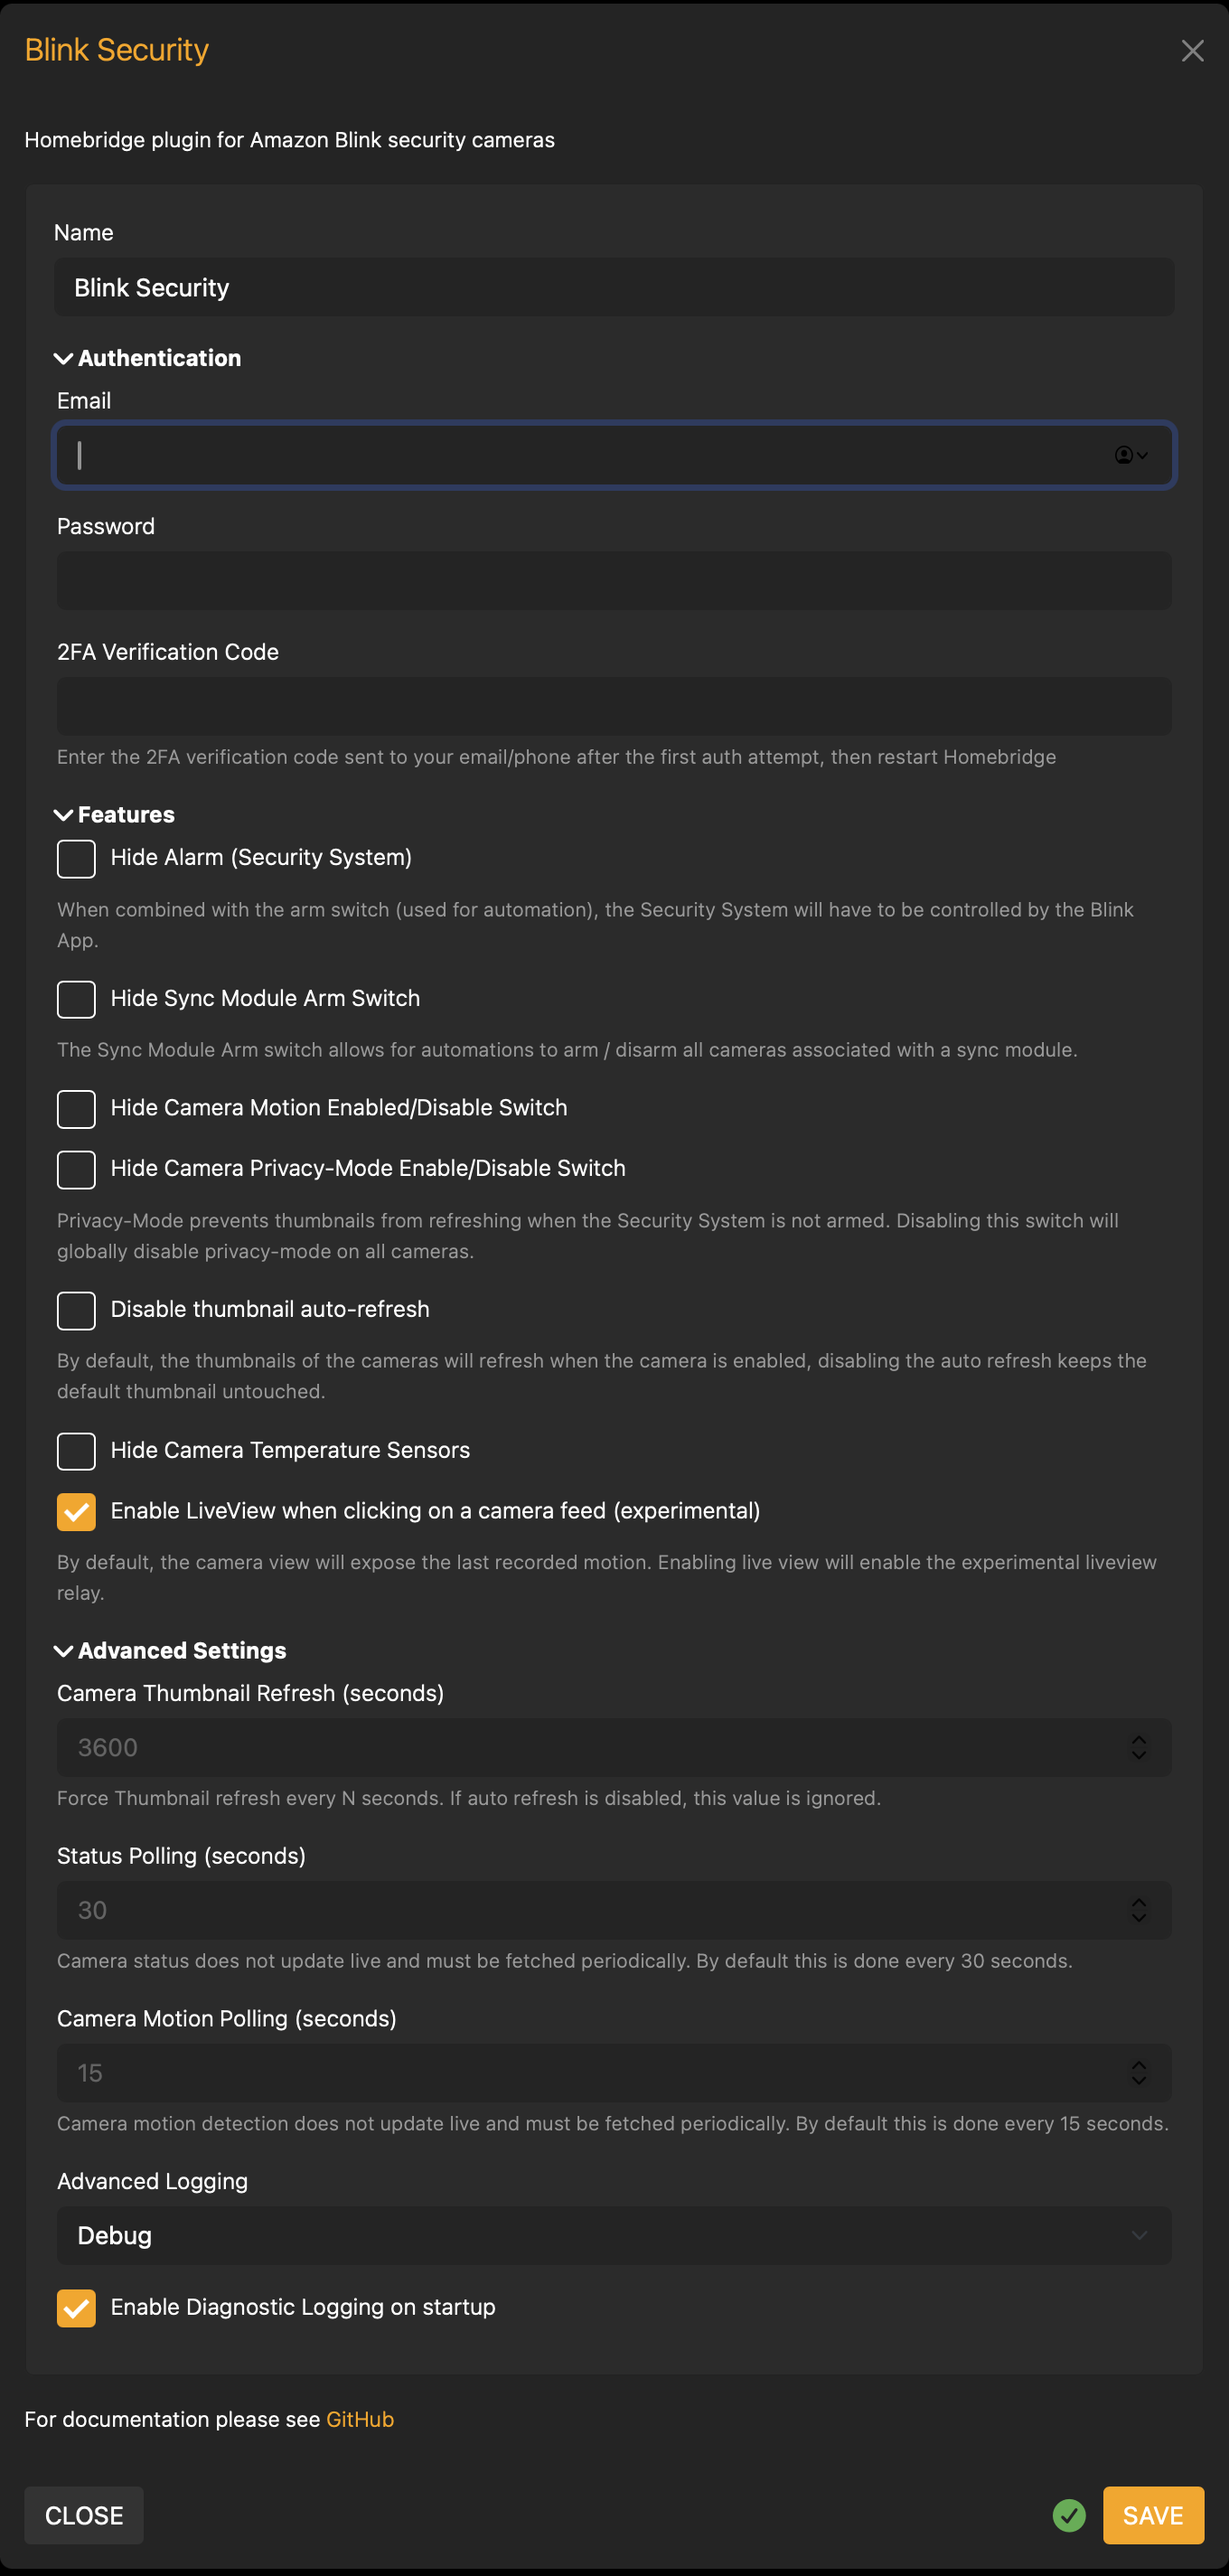
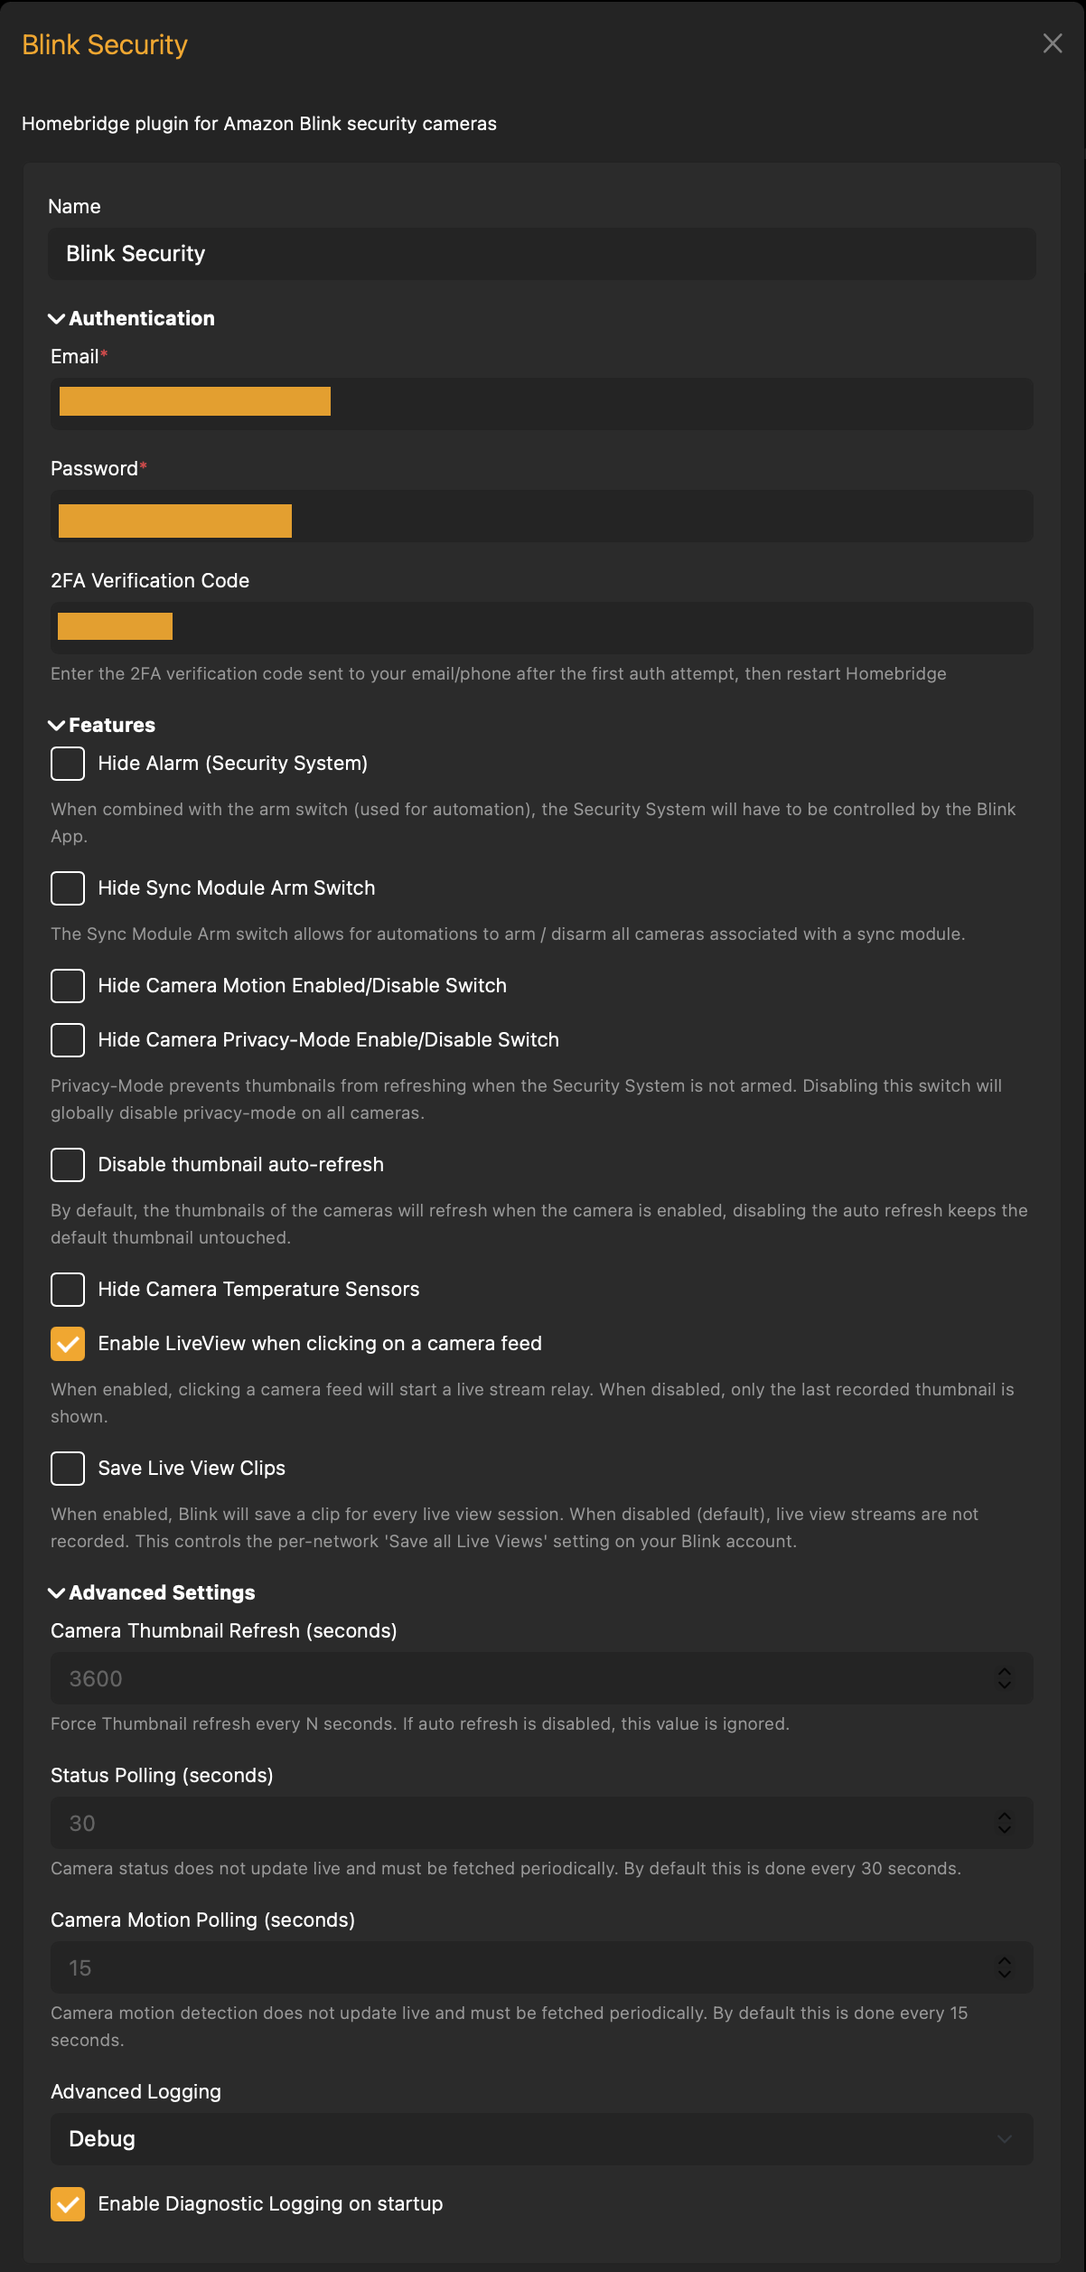
feat(api): upgrade liveview endpoints to match official Blink app and add lv_save control
- upgrade camera liveview from v5 to v6 API endpoint
- upgrade owl (Mini) liveview from v1 to v2 API endpoint
- upgrade doorbell liveview from v1 to v2 API endpoint
- send motion_event_start_time as null instead of empty string to
  prevent Blink from treating liveview sessions as motion events
- add lv_save (Save Live View Clips) per-network setting that syncs
  with Blink's server-side flag on startup, with fallback endpoint
  resolution for compatibility across account types
- expose lv-save as a plugin config option (default: false) so users
  can control whether Live View sessions are recorded to Blink cloud
- add Blink XT/XT2 (RTSP) to supported devices table in README
- update README with new lv-save configuration option and features
- update settings screenshot to reflect new UI option

diff --git a/src/lib/api.ts b/src/lib/api.ts
@@ -106,8 +106,8 @@ export class BlinkApi {
     cameraID: number
   ): Promise<LiveViewResponse> {
     return this.client.post<LiveViewResponse>(
-      `/api/v5/accounts/{accountID}/networks/${networkID}/cameras/${cameraID}/liveview`,
-      { intent: 'liveview', motion_event_start_time: '' }
+      `/api/v6/accounts/{accountID}/networks/${networkID}/cameras/${cameraID}/liveview`,
+      { intent: 'liveview', motion_event_start_time: null }
     );
   }
 
@@ -129,7 +129,8 @@ export class BlinkApi {
     owlID: number
   ): Promise<LiveViewResponse> {
     return this.client.post<LiveViewResponse>(
-      `/api/v1/accounts/{accountID}/networks/${networkID}/owls/${owlID}/liveview`
+      `/api/v2/accounts/{accountID}/networks/${networkID}/owls/${owlID}/liveview`,
+      { intent: 'liveview', motion_event_start_time: null }
     );
   }
 
@@ -167,6 +168,36 @@ export class BlinkApi {
     );
   }
 
+  async updateNetworkLvSave(
+    networkID: number,
+    lv_save: boolean
+  ): Promise<CommandResponse> {
+    // Try multiple endpoint/payload combinations — the working one varies by account
+    const attempts: Array<{ path: string; body: unknown }> = [
+      {
+        path: `/network/${networkID}/update`,
+        body: { lv_save },
+      },
+      {
+        path: `/api/v1/accounts/{accountID}/networks/${networkID}/update`,
+        body: { lv_save },
+      },
+      {
+        path: `/network/${networkID}/update`,
+        body: { network: { lv_save } },
+      },
+    ];
+
+    for (const { path, body } of attempts) {
+      try {
+        return await this.client.post<CommandResponse>(path, body);
+      } catch {
+        // Try next combination
+      }
+    }
+    throw new Error(`Failed to update lv_save for network ${networkID}`);
+  }
+
   // --- Doorbell APIs ---
 
   async getDoorbellLiveView(
@@ -174,7 +205,8 @@ export class BlinkApi {
     doorbellID: number
   ): Promise<LiveViewResponse> {
     return this.client.post<LiveViewResponse>(
-      `/api/v1/accounts/{accountID}/networks/${networkID}/doorbells/${doorbellID}/liveview`
+      `/api/v2/accounts/{accountID}/networks/${networkID}/doorbells/${doorbellID}/liveview`,
+      { intent: 'liveview', motion_event_start_time: null }
     );
   }
 
@@ -478,6 +510,7 @@ export interface HomescreenNetwork {
   created_at: string;
   updated_at: string;
   armed: boolean;
+  lv_save?: boolean;
   status?: string;
   syncModule?: SyncModule;
 }

diff --git a/src/lib/config.ts b/src/lib/config.ts
@@ -10,6 +10,7 @@ export interface BlinkSecurityConfig extends PlatformConfig {
   'hide-enabled-switch'?: boolean;
   'hide-privacy-switch'?: boolean;
   'enable-liveview'?: boolean;
+  'lv-save'?: boolean;
   'disable-thumbnail-refresh'?: boolean;
   'camera-thumbnail-refresh-seconds'?: number;
   'camera-status-polling-seconds'?: number;
@@ -29,6 +30,7 @@ export interface BlinkOptions {
   noEnabledSwitch: boolean;
   noPrivacySwitch: boolean;
   liveView: boolean;
+  lvSave: boolean;
   noThumbnailRefresh: boolean;
   snapshotSeconds: number;
   statusPollingSeconds: number;
@@ -48,6 +50,7 @@ export const DEFAULT_OPTIONS: BlinkOptions = {
   noEnabledSwitch: false,
   noPrivacySwitch: false,
   liveView: true,
+  lvSave: false,
   noThumbnailRefresh: false,
   snapshotSeconds: 3600,
   statusPollingSeconds: 30,
@@ -96,6 +99,7 @@ export function normalizeConfig(config: BlinkSecurityConfig): BlinkOptions {
   checkBoolean('hide-enabled-switch', 'noEnabledSwitch');
   checkBoolean('hide-privacy-switch', 'noPrivacySwitch');
   checkBoolean('enable-liveview', 'liveView');
+  checkBoolean('lv-save', 'lvSave');
   checkBoolean('disable-thumbnail-refresh', 'noThumbnailRefresh');
   checkNumber('camera-thumbnail-refresh-seconds', 'snapshotSeconds');
   checkNumber('camera-status-polling-seconds', 'statusPollingSeconds');

diff --git a/src/platform.ts b/src/platform.ts
@@ -75,6 +75,27 @@ export class BlinkSecurityPlatform implements DynamicPlatformPlugin {
     try {
       this.blink = await this.setupBlink();
 
+      // Sync lv_save (Save Live View Clips) setting for each network
+      for (const network of this.blink.networks.values()) {
+        const current = network.data.lv_save;
+        const desired = this.config.lvSave;
+        this.log.info(
+          `Blink ${network.name} - lv_save: ${current ?? 'unknown'} (config: ${desired})`
+        );
+        if (current !== undefined && current !== desired) {
+          try {
+            await this.blink.api.updateNetworkLvSave(network.data.id, desired);
+            this.log.info(
+              `Blink ${network.name} - lv_save updated to ${desired}`
+            );
+          } catch (e) {
+            this.log.warn(
+              `Blink ${network.name} - Failed to update lv_save: ${e}`
+            );
+          }
+        }
+      }
+
       this.log.info(
         `Blink discovered: ${this.blink.networks.size} networks, ${this.blink.cameras.size} cameras, ${this.blink.doorbells.size} doorbells, ${this.blink.sirens.size} sirens`
       );

diff --git a/README.md b/README.md
@@ -39,6 +39,7 @@
 | Device                    | Model Type            | Capabilities                                                                                                                                                                                                        |
 | ------------------------- | --------------------- | ------------------------------------------------------------------------------------------------------------------------------------------------------------------------------------------------------------------- |
 | 📷 Blink Outdoor / Indoor | `default`, `catalina` | <ul><li>Live view (IMMI)</li><li>Motion sensor</li><li>Snapshots</li><li>Temperature</li><li>Battery level</li><li>Night vision</li><li>Clip recording</li><li>Privacy mode</li><li>Motion enable/disable</li></ul> |
+| 📷 Blink XT / XT2         | `white`, `xt`         | <ul><li>Live view (RTSP)</li><li>Motion sensor</li><li>Snapshots</li><li>Temperature</li><li>Battery level</li><li>Night vision</li><li>Clip recording</li><li>Privacy mode</li><li>Motion enable/disable</li></ul> |
 | 📸 Blink Mini             | `owl`                 | <ul><li>Live view (IMMI)</li><li>Motion sensor</li><li>Snapshots</li><li>Clip recording</li><li>Privacy mode</li><li>Motion enable/disable</li></ul>                                                                |
 | 📸 Blink Mini 2           | `hawk`                | <ul><li>Live view (IMMI)</li><li>Motion sensor</li><li>Snapshots</li><li>Clip recording</li><li>Privacy mode</li><li>Motion enable/disable</li></ul>                                                                |
 | 🔦 Blink Wired Floodlight | `superior_owl`        | <ul><li>Live view (IMMI)</li><li>Motion sensor</li><li>Snapshots</li><li>Clip recording</li><li>Privacy mode</li><li>Motion enable/disable</li></ul>                                                                |
@@ -84,7 +85,7 @@ graph TD
 
 ## Features
 
-- **Live view** — IMMI streaming via ffmpeg with automatic keepalive
+- **Live view** — IMMI and RTSP streaming via ffmpeg with automatic keepalive
 - **Security system** — Arm/disarm per network, with optional manual arm switch
 - **Multi-network** — Supports multiple sync modules, each with independent arm/disarm
 - **Motion detection** — Configurable polling interval with debounce
@@ -96,6 +97,7 @@ graph TD
 - **Privacy mode** — Per-camera switch to suppress snapshots when disarmed
 - **Night vision** — IR illuminator toggle (Outdoor/Indoor models)
 - **Clip recording** — Trigger a clip recording via momentary switch
+- **Live View clip saving** — Configurable per-network `lv_save` toggle to save or suppress Live View clips
 - **Audio** — One-way audio (OPUS / AAC-ELD)
 - **OAuth 2.0 + PKCE** — Token refresh and persistent sessions across restarts
 - **2FA** — One-time PIN verification for Blink's two-factor auth
@@ -167,6 +169,7 @@ Blink requires two-factor authentication on first login:
 | `hide-enabled-switch`              | boolean | `false`    | Hide motion enabled/disabled switch           |
 | `hide-privacy-switch`              | boolean | `false`    | Hide privacy mode switch                      |
 | `enable-liveview`                  | boolean | `true`     | Enable IMMI live view streaming               |
+| `lv-save`                          | boolean | `false`    | Save Live View clips to Blink cloud           |
 | `disable-thumbnail-refresh`        | boolean | `false`    | Disable automatic thumbnail refresh           |
 | `camera-thumbnail-refresh-seconds` | integer | `3600`     | Thumbnail refresh interval in seconds         |
 | `camera-status-polling-seconds`    | integer | `30`       | Status polling interval in seconds            |
